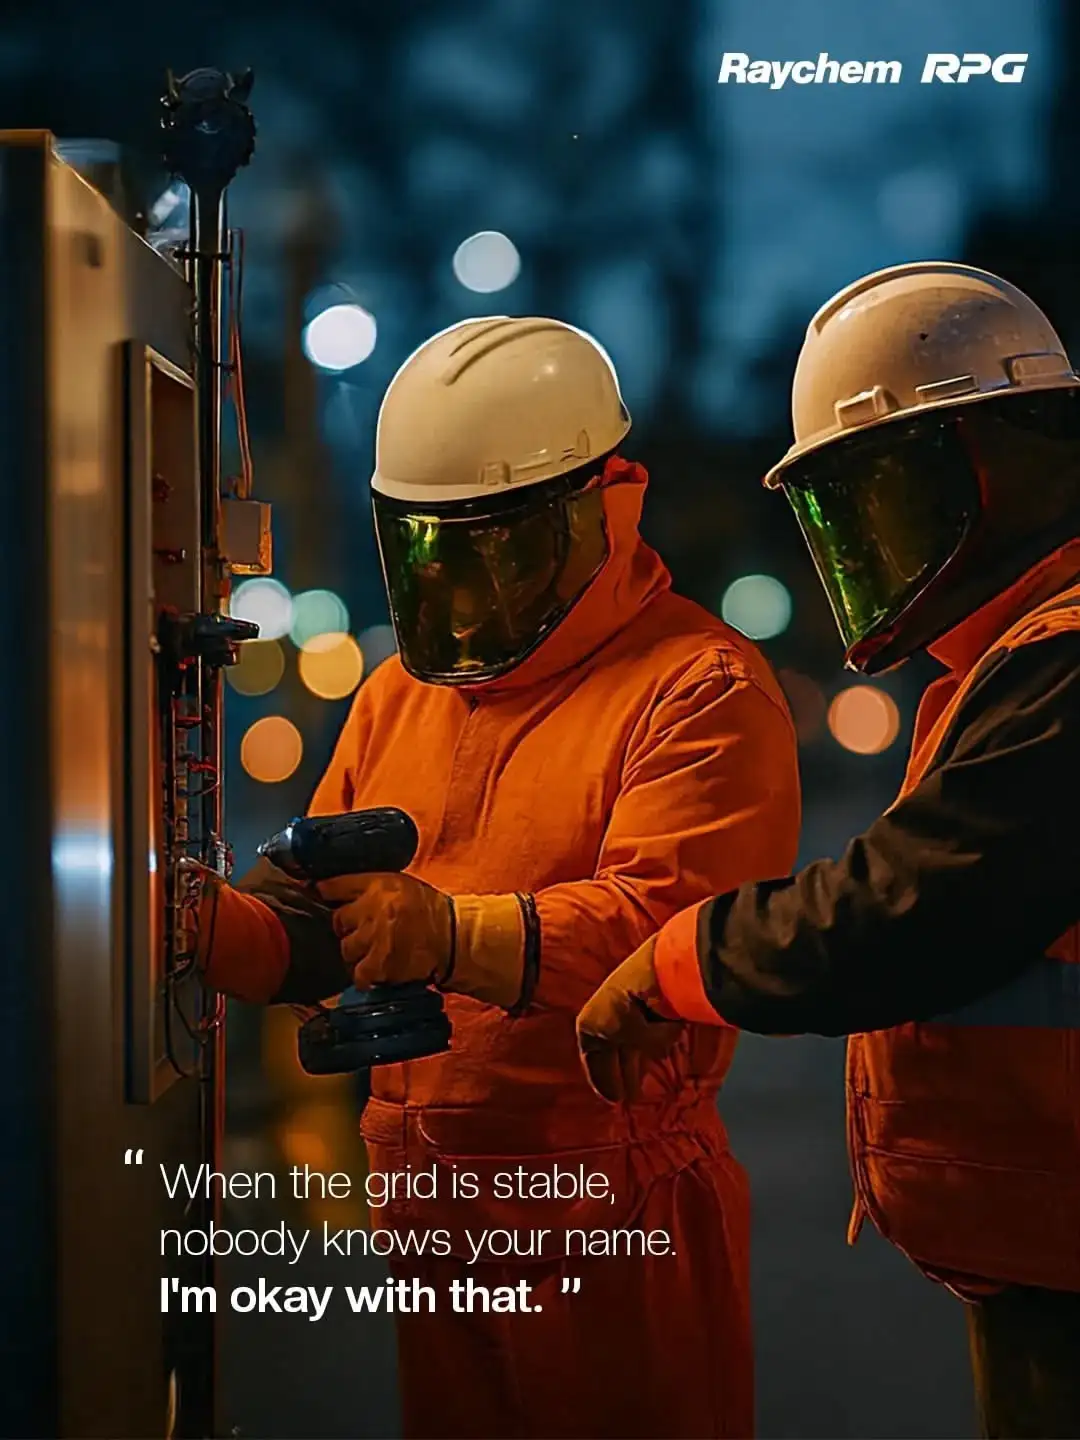
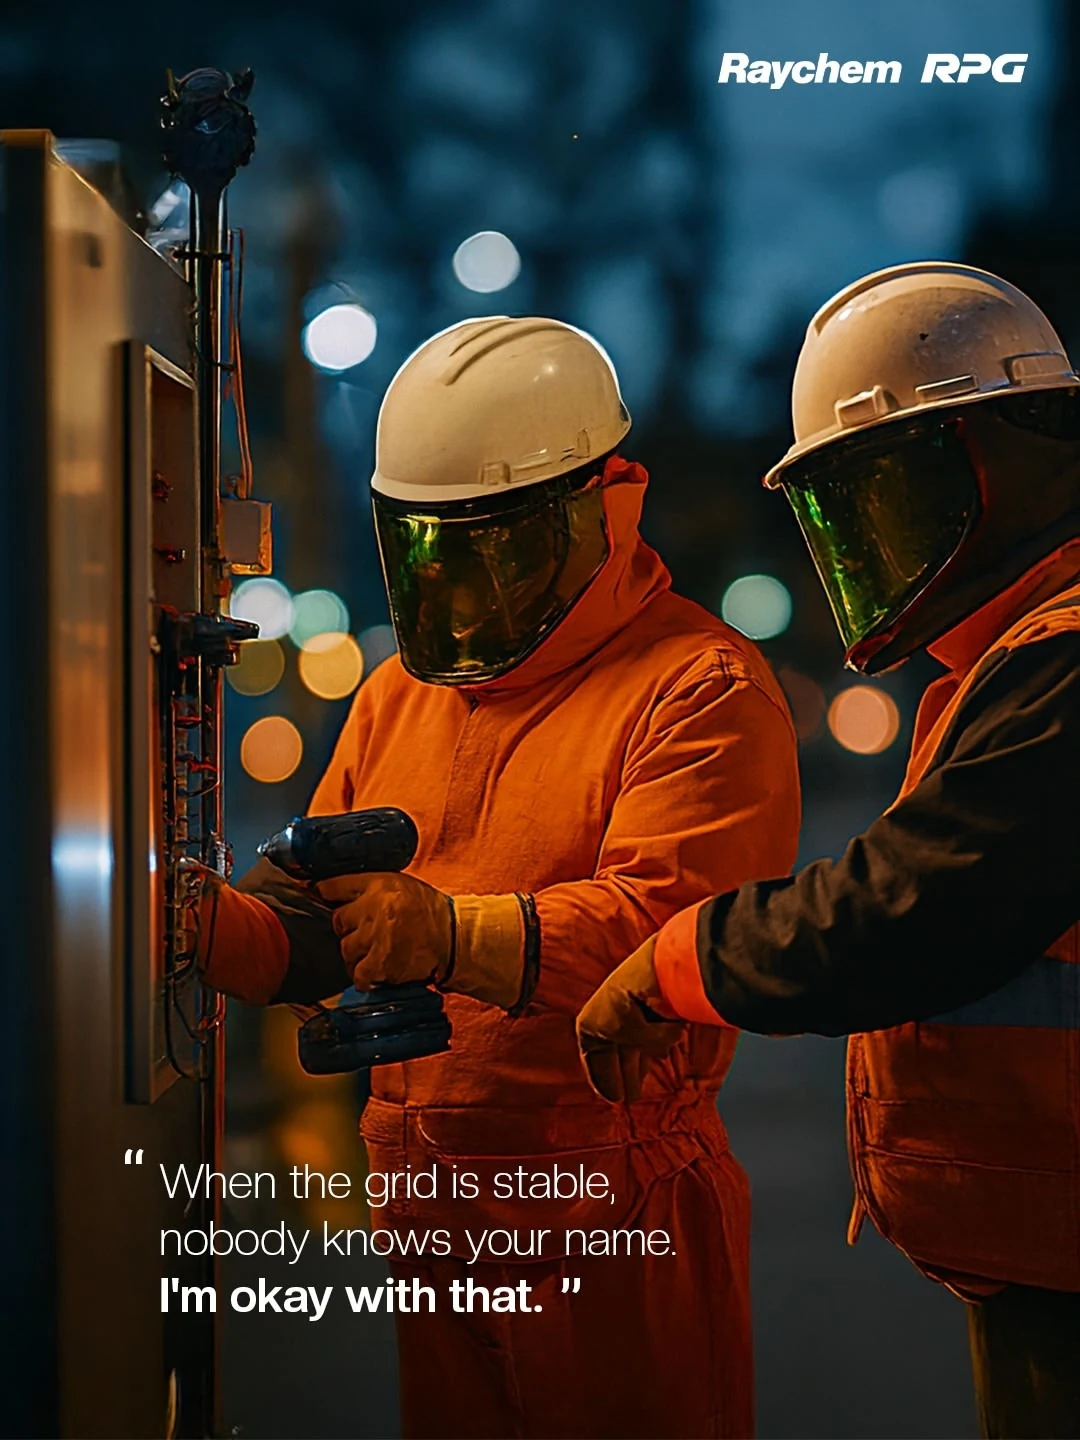
Refresh cover and Raychem visuals

Changed region(s): [[0.7639, 0.4062, 0.7944, 0.4375]]

diff --git a/src/components/OwlSurfLogo.tsx b/src/components/OwlSurfLogo.tsx
@@ -1,0 +1,113 @@
+import React, { useEffect, useRef, useState } from "react";
+
+const DURATION = 360;
+const FPS = 30;
+
+function interpolate(
+  value: number,
+  inputRange: [number, number, number],
+  outputRange: [number, number, number]
+): number {
+  const [i0, i1, i2] = inputRange;
+  const [o0, o1, o2] = outputRange;
+  if (value <= i0) return o0;
+  if (value <= i1) return o0 + ((value - i0) / (i1 - i0)) * (o1 - o0);
+  if (value <= i2) return o1 + ((value - i1) / (i2 - i1)) * (o2 - o1);
+  return o2;
+}
+
+interface OwlSurfLogoProps {
+  className?: string;
+  style?: React.CSSProperties;
+}
+
+export const OwlSurfLogo: React.FC<OwlSurfLogoProps> = ({ className, style }) => {
+  const [frame, setFrame] = useState(0);
+  const rafRef = useRef<number>(0);
+  const startRef = useRef<number>(0);
+  const lastFrameRef = useRef<number>(-1);
+
+  useEffect(() => {
+    const animate = (timestamp: number) => {
+      if (!startRef.current) startRef.current = timestamp;
+      const elapsed = timestamp - startRef.current;
+      const currentFrame = Math.floor((elapsed / 1000) * FPS) % DURATION;
+
+      if (currentFrame !== lastFrameRef.current) {
+        lastFrameRef.current = currentFrame;
+        setFrame(currentFrame);
+      }
+
+      rafRef.current = requestAnimationFrame(animate);
+    };
+
+    rafRef.current = requestAnimationFrame(animate);
+    return () => cancelAnimationFrame(rafRef.current);
+  }, []);
+
+  const t = (frame / DURATION) * Math.PI * 2;
+  const earAngle = Math.sin(t * 3) * 3;
+
+  const cycle = 120;
+  const burst = 20;
+  const flapPhase = frame % cycle;
+  const wingAngle =
+    flapPhase < burst
+      ? Math.sin((flapPhase / burst) * Math.PI * 2 * 3) * 2.5
+      : 0;
+
+  const blinkPhase = frame % 90;
+  const eyeScaleY =
+    blinkPhase < 8
+      ? interpolate(blinkPhase, [0, 4, 8], [1, 0.05, 1])
+      : 1;
+
+  const scaleAround = (px: number, py: number, sy: number) =>
+    `translate(${px} ${py}) scale(1 ${sy}) translate(${-px} ${-py})`;
+
+  return (
+    <svg
+      viewBox="0 0 800 816.29"
+      xmlns="http://www.w3.org/2000/svg"
+      className={className}
+      style={style}
+      role="img"
+      aria-label="OwlSurf logo"
+    >
+      <circle cx="400" cy="400" r="400" fill="#4dc1c1" />
+
+      <g transform={`rotate(${-earAngle} 196 235)`}>
+        <polygon fill="#231f20" points="195.67 279.69 155.96 190.54 286.8 242.73 195.67 279.69" />
+        <path fill="#231f20" d="m192.61,287.27l-47.91-107.54,157.84,62.95-109.94,44.59Zm-25.4-85.91l31.51,70.74,72.32-29.33-103.83-41.41Z" />
+      </g>
+
+      <g transform={`rotate(${earAngle} 512 235)`}>
+        <polygon fill="#231f20" points="512.18 276.34 551.89 187.19 421.05 239.38 512.18 276.34" />
+        <path fill="#231f20" d="m515.23,283.92l-109.94-44.59,157.84-62.95-47.9,107.54Zm-78.43-44.5l72.32,29.33,31.51-70.74-103.83,41.41Z" />
+      </g>
+
+      <g transform={`rotate(${wingAngle} 370 380)`}>
+        <path fill="#231f20" d="m238.69,328.59s-103.28,358.7,316.38,471.46c0,0,135.58-506.38-316.38-471.46Z" />
+      </g>
+
+      <ellipse cx="357.63" cy="302.87" rx="216.5" ry="156.99" fill="#231f20" />
+      <path fill="#ffffff" d="m539.71,287.25c0,36.44-19.02,68.42-47.66,86.61-24.97,17.71-72.39,29.66-126.87,29.66-57.77,0-107.66-13.45-131.18-32.95-.05-.05-.1-.1-.15-.15-25.89-18.58-42.68-48.92-42.68-83.18,0-56.66,45.92-102.58,102.58-102.58,27.92,0,53.23,11.13,71.66,29.27,18.44-18.15,43.74-29.27,71.71-29.27,56.66,0,102.58,45.92,102.58,102.58Z" />
+      <path fill="#231f20" d="m365.18,406.47c-57.05,0-108.04-12.89-133.05-33.63l-.19-.17c-27.37-19.74-43.7-51.65-43.7-85.42,0-58.18,47.34-105.52,105.52-105.52,26.85,0,52.18,9.97,71.66,28.14,19.48-18.17,44.83-28.14,71.71-28.14,58.18,0,105.52,47.34,105.52,105.52,0,36.29-18.33,69.6-49.02,89.09-26.14,18.55-75.4,30.12-128.45,30.12Zm-71.42-218.85c-54.94,0-99.64,44.7-99.64,99.64,0,31.96,15.5,62.16,41.45,80.79l.36.31c23.59,19.57,74.34,32.24,129.24,32.24,51.89,0,99.85-11.16,125.17-29.12,29.12-18.5,46.42-49.95,46.42-84.22,0-54.94-44.7-99.64-99.64-99.64-26.29,0-51.02,10.1-69.65,28.43l-2.06,2.03-2.06-2.03c-18.63-18.33-43.34-28.43-69.6-28.43Z" />
+
+      <circle fill="#231f20" cx="268.18" cy="276.83" r="43.34" />
+      <path fill="#231f20" d="m268.18,328.33c-28.39,0-51.49-23.1-51.49-51.49s23.1-51.49,51.49-51.49,51.49,23.1,51.49,51.49-23.1,51.49-51.49,51.49Zm0-86.67c-19.4,0-35.18,15.78-35.18,35.18s15.78,35.18,35.18,35.18,35.18-15.78,35.18-35.18-15.78-35.18-35.18-35.18Z" />
+
+      <circle fill="#231f20" cx="463.49" cy="275.41" r="43.34" />
+      <path fill="#231f20" d="m463.49,326.91c-28.39,0-51.49-23.1-51.49-51.49s23.1-51.49,51.49-51.49,51.49,23.1,51.49,51.49-23.1,51.49-51.49,51.49Zm0-86.67c-19.4,0-35.18,15.78-35.18,35.18s15.78,35.18,35.18,35.18,35.18-15.78,35.18-35.18-15.78-35.18-35.18-35.18Z" />
+
+      <polygon fill="#231f20" points="348.87 288.11 381.11 288.11 364.99 316.01 348.87 288.11" />
+
+      <path fill="#ffffff" d="m592.71,685.55l-109,99.37c-15.11-5.59-32.08-13.28-51.17-23.39-204.57-108.39-151.65-389.94-151.65-389.94l105.94-41.67,205.88,355.63Z" />
+      <path fill="#231f20" d="m640.36,810.97c-18.24-116.54-46.15-239.08-96.06-345.52-32.7-69.73-92.9-145.96-166.34-89.03-24.7,19.15-40.86,49.45-48.77,81.73-12.63,51.51-8.66,111.34,3.42,163.5,0,.01,42.36,182.79,307.76,189.32Z" />
+      <path fill="#ffffff" d="m646.42,816.29l-6.19-.15c-138.79-3.41-216.32-55.51-256.93-98.61-44.23-46.95-55.29-92.77-55.73-94.7-13.81-59.61-15.02-118.53-3.41-165.9,8.85-36.1,26.83-66.13,50.62-84.59,23.65-18.34,47.77-24.71,71.7-18.95,49.99,12.04,85.67,74.01,102.49,109.87,42.61,90.86,74.17,204.34,96.49,346.91l.96,6.11Zm-216.9-454.6c-16.03,0-32.26,6.3-48.41,18.82-21.96,17.03-38.63,45.04-46.92,78.88-11.23,45.83-10.01,103.04,3.44,161.1.41,1.77,44.12,176.13,296.65,185.13-22.11-138.71-53.09-249.31-94.67-337.97-16.03-34.19-49.76-93.18-95.56-104.21-4.82-1.16-9.67-1.74-14.54-1.74Z" />
+
+      <circle fill="#ffffff" cx="268.18" cy="276.83" r="10.09" transform={scaleAround(268.18, 276.83, eyeScaleY)} />
+      <circle fill="#ffffff" cx="462.91" cy="275.41" r="10.09" transform={scaleAround(462.91, 275.41, eyeScaleY)} />
+    </svg>
+  );
+};

diff --git a/src/components/slides/TitleSlide.tsx b/src/components/slides/TitleSlide.tsx
@@ -12,11 +12,11 @@ const Arrow19 = React.forwardRef<Arrow19Element, Arrow19Props>(
 );
 Arrow19.displayName = "Arrow19";
 import { animate, createSpring } from "animejs";
-import logo from "@/assets/logo-main.jpg";
 import { Globe } from "@/components/ui/globe";
 import { LiquidGlassCard } from "react-liquid-glass-card";
 import LightRays from "@/components/LightRays";
 import { useIsMobile } from "@/hooks/use-mobile";
+import { OwlSurfLogo } from "@/components/OwlSurfLogo";
 
 const TitleSlide = ({ onViewCaseStudies }: { onViewCaseStudies?: () => void }) => {
   const isMobile = useIsMobile();
@@ -234,7 +234,7 @@ const TitleSlide = ({ onViewCaseStudies }: { onViewCaseStudies?: () => void }) =
               style={{ clipPath: "circle(0% at 50% 50%)" }}
             >
               <LiquidGlassCard borderRadius="50%" padding="6px" blur={15} brightness={1.15} backgroundColor="rgba(75, 194, 194, 0.08)">
-                <img src={logo} alt="OwlSurf Digital" className="w-full h-full object-cover rounded-full" />
+                <OwlSurfLogo className="h-full w-full rounded-full" />
               </LiquidGlassCard>
             </div>
           </a>

diff --git a/src/components/slides/SkyrocketSlide.tsx b/src/components/slides/SkyrocketSlide.tsx
@@ -137,7 +137,7 @@ const SkyrocketSlide = () => {
       </div>
       <div className="absolute inset-0 z-[1] bg-[radial-gradient(circle_at_63%_50%,rgba(75,194,194,0.18),transparent_34%),linear-gradient(90deg,hsl(214_30%_6%/0.98),hsl(214_30%_6%/0.92)_48%,hsl(182_70%_18%/0.38))]" />
       <div className="relative z-10 h-full w-full max-w-[1720px] overflow-hidden bg-[#090d12]/92 shadow-2xl">
-        <div className="absolute inset-y-0 right-0 z-10 hidden w-[58%] overflow-hidden md:block">
+        <div className="absolute inset-y-0 right-[-8%] z-10 hidden w-[58%] overflow-hidden md:block">
           <img
             src={industrialEngineerImage}
             alt=""

diff --git a/src/components/slides/RaychemRPGCaseStudy.tsx b/src/components/slides/RaychemRPGCaseStudy.tsx
@@ -10,9 +10,9 @@ const raychemRed = "356 86% 52%";
 const raychemBlue = "210 100% 25%";
 
 const sliderImages = [
-    { image: raychemCreative1, alt: "Raychem RPG creative 1" },
-    { image: raychemCreative2, alt: "Raychem RPG creative 2" },
-    { image: raychemCreative3, alt: "Raychem RPG creative 3" },
+    { image: raychemCreative1, alt: "Raychem RPG power grid creative" },
+    { image: raychemCreative2, alt: "Raychem RPG invisible infrastructure creative" },
+    { image: raychemCreative3, alt: "Raychem RPG field engineers at work" },
 ];
 
 const RaychemRPGCaseStudy = () => {

diff --git a/handoff.md b/handoff.md
@@ -15,7 +15,9 @@ Do not update `handoff.md` at session end, during context clearing, or during or
 
 ## Current Goal
 
-Session 16 (current) is preparing a push for the deck-wide Anime.js motion cleanup and OwlSurf teal scale update. The non-case-study slides now use stronger content-bound Anime.js motion: heading spring, accent-word blur-to-sharp motion, lanyard/card/logo overshoot, and link/icon pulses where useful. The broad scan-line sweep and circular glow-orbit blob have been removed from all slides, including all seven case studies.
+Session 17 (current) is preparing a push for a focused visual asset update. The cover slide now uses a reusable animated SVG `OwlSurfLogo` component in the same right-side circular logo placement, the Who We Are slide's right-side technical illustration is shifted further toward the right edge, and the Raychem RPG case study now uses three refreshed WebP creatives converted from the user's Downloads folder.
+
+Session 16 pushed the deck-wide Anime.js motion cleanup and OwlSurf teal scale update. The non-case-study slides now use stronger content-bound Anime.js motion: heading spring, accent-word blur-to-sharp motion, lanyard/card/logo overshoot, and link/icon pulses where useful. The broad scan-line sweep and circular glow-orbit blob have been removed from all slides, including all seven case studies.
 
 Session 15 pushed the case-study Anime.js motion system. All seven case-study slides keep heading spring, accent-word blur-to-sharp slide, creative/slider overshoot, and stat icon pulse where stats exist. The scan-line sweep and glow orbit from that first pass were removed in Session 16 after visual feedback.
 
@@ -39,6 +41,13 @@ The dev server was running during this session. `npm run build` was run before p
 - **No line/blob rule** — `rg -n "scan-line|glow-orbit" src/components/slides` returns no matches.
 - **OwlSurf design system** (`src/index.css`, `tailwind.config.ts`) — added the supplied teal scale from `50` to `700`, kept `#4BC2C2` as the primary teal, and remapped teal light/dark aliases to the new scale.
 - **Next session plan** — add/reuse a `prefers-reduced-motion` gate before broadening motion further or extracting shared helpers.
+
+### Cover logo, Who We Are image placement, and Raychem creatives (Session 17)
+
+- **Cover (TitleSlide)** — the old `logo-main.jpg` image inside the right-side circular logo treatment was replaced with a new reusable `OwlSurfLogo` SVG component. The existing link, rings, sizing wrapper, glass card, and reveal animation were kept.
+- **Who We Are (SkyrocketSlide)** — the desktop right-side technical illustration panel now sits at `right-[-8%]` so the image hugs the right edge more closely while retaining its scale and existing animation.
+- **Raychem RPG case study** — the three Raychem JPEG creatives from `~/Downloads/Client Projects/Raychem RPG/` were converted to WebP and replaced the existing site assets: `raychem-creative-1.webp`, `raychem-creative-2.webp`, and `Raychemcasestudy 3.webp`. The slide still renders all three through `ParallaxCardSlider`, with clearer alt text.
+- **Verification approach** — browser visual checks were skipped at the user's explicit request. The user will provide visual feedback manually.
 
 ### Our Team lanyard + handoff workflow (Session 14)
 
@@ -112,6 +121,20 @@ Removed 16 orphan files in this session:
 `vite.config.ts` `manualChunks` still lists `@radix-ui/react-slot`, `@radix-ui/react-toast`, and `@radix-ui/react-tooltip` under `vendor-ui`. These dependencies remain installed in `package.json` because nothing in `src/` imports them after the deletes — they are candidates for a future `npm uninstall`, but the dependency-removal pass was not done in this session.
 
 `@gsap/react` becomes unused after `SplitText.tsx` was removed; same caveat applies.
+
+## Files Touched (Session 17)
+
+Focused visual asset update:
+- `src/components/OwlSurfLogo.tsx` — new reusable animated SVG OwlSurf mark
+- `src/components/slides/TitleSlide.tsx` — cover logo content swapped to `OwlSurfLogo`
+- `src/components/slides/SkyrocketSlide.tsx` — right-side illustration panel shifted toward the right edge
+- `src/components/slides/RaychemRPGCaseStudy.tsx` — Raychem slider alt text refreshed while keeping all three converted creatives
+- `src/assets/raychem-creative-1.webp` — replaced with converted Raychem PowerGrid creative from Downloads
+- `src/assets/raychem-creative-2.webp` — replaced with converted Raychem Invisible Infrastructure creative from Downloads
+- `src/assets/Raychemcasestudy 3.webp` — replaced with converted Raychem human/field-engineer creative from Downloads
+- `context.md` — Session 17 log and latest-state summary
+- `prod.md` — cover logo, Slide 2 placement, and Raychem WebP guidance
+- `handoff.md` — push-gate state refreshed for this push
 
 ## Files Touched (Session 13)
 
@@ -211,6 +234,8 @@ Doc updates (this commit):
 - `npm run build` passes before the Session 14 lanyard/workflow push.
 - `npm run build` passes before the Session 15 case-study motion push.
 - `npm run build` passes before the Session 16 deck-wide motion cleanup push.
+- `npm run build` passes before the Session 17 visual asset push.
+- `file src/assets/raychem-creative-1.webp src/assets/raychem-creative-2.webp 'src/assets/Raychemcasestudy 3.webp'` confirms all three Raychem assets are WebP images at 1080x1440.
 - `rg -n "scan-line|glow-orbit" src/components/slides` returns no matches after Session 16 cleanup.
 - `npm test` / `npm run lint` were not re-run in this session after the deletes; the project's pre-existing lint debt in `LightRays.tsx`, `Hyperspeed.tsx`, `PrismaticBurst.tsx`, and `tailwind.config.ts` is still expected to fail lint.
 - Visual screenshot capture was intentionally skipped per the original handoff policy (the user prefers to judge browser output manually).
@@ -249,11 +274,15 @@ Other open project items carried over from earlier sessions:
 
 ## Current Workspace Notes
 
-Intended files for the Session 11 commit:
-- 13 slide / nav source files listed above
+Intended files for the Session 17 commit:
+- `src/components/OwlSurfLogo.tsx`
+- `src/components/slides/TitleSlide.tsx`
+- `src/components/slides/SkyrocketSlide.tsx`
+- `src/components/slides/RaychemRPGCaseStudy.tsx`
+- `src/assets/raychem-creative-1.webp`
+- `src/assets/raychem-creative-2.webp`
+- `src/assets/Raychemcasestudy 3.webp`
 - `handoff.md`, `context.md`, `prod.md`
-- `ux-audit-report.html`, `ux-audit-report.pdf`
-- 16 orphan file deletes
 
 Unrelated untracked items that should remain unstaged unless asked:
 - `.agents/`

diff --git a/context.md b/context.md
@@ -10,11 +10,42 @@
 **Live URL:** Was on Vercel (domain broken — needs reconnect). GitHub: `Manasxxx/presentation-palette-perfect`.
 **Dev:** `npm run dev` → `localhost:8080` (port hardcoded in `vite.config.ts`).
 **Stack:** Vite + React 18 + TypeScript + Tailwind 3 + Anime.js + GSAP + shadcn/ui (with most shadcn primitives now removed as dead code).
-**Latest working state:** Session 16 extended the Anime.js entrance language to the non-case-study slides and removed the broad scan-line / circular glow-orbit treatment from the deck. The current motion language is heading spring, accent-word blur-to-sharp slide, creative/slider/lanyard overshoot, and stat/icon pulse where useful. The OwlSurf design tokens now include the supplied teal scale (`50` through `700`) in CSS variables and Tailwind.
+**Latest working state:** Session 17 refreshed a small set of visual assets without changing the deck structure: the cover uses a reusable animated SVG `OwlSurfLogo` component in the existing right-side logo slot, the Who We Are right-side illustration is pushed further toward the right edge, and the Raychem RPG case study uses three WebP creatives converted from the user's Downloads folder. Session 16's current motion language remains heading spring, accent-word blur-to-sharp slide, creative/slider/lanyard overshoot, and stat/icon pulse where useful. The OwlSurf design tokens still include the supplied teal scale (`50` through `700`) in CSS variables and Tailwind.
 
 ---
 
 ## Session Log
+
+### Session 17 — Cover logo component, Slide 2 image shift, Raychem WebP refresh
+
+**What was done:**
+
+**1. Cover logo replaced with animated SVG component** (`src/components/OwlSurfLogo.tsx`, `src/components/slides/TitleSlide.tsx`)
+- Added a reusable `OwlSurfLogo` React component based on the user-supplied SVG animation file from Downloads.
+- Swapped the cover slide's `logo-main.jpg` image for `OwlSurfLogo` inside the existing right-side circular logo treatment.
+- Preserved the current placement, external link, ring treatment, glass card wrapper, size classes, and clip-path reveal animation.
+
+**2. Who We Are image shifted right** (`src/components/slides/SkyrocketSlide.tsx`)
+- Moved the desktop right-side image panel from `right-0` to `right-[-8%]`.
+- Kept the image scale, object positioning, opacity, blend mode, and Anime.js entrance unchanged.
+
+**3. Raychem creatives replaced with converted WebP assets** (`src/assets/*.webp`, `src/components/slides/RaychemRPGCaseStudy.tsx`)
+- Converted these three files from `~/Downloads/Client Projects/Raychem RPG/` to WebP and replaced the existing site assets:
+  - `Raychem PowerGrid.jpeg` -> `src/assets/raychem-creative-1.webp`
+  - `Raychem Invisible Infrastructure.jpeg` -> `src/assets/raychem-creative-2.webp`
+  - `Raychem 1 3am India.jpeg` -> `src/assets/Raychemcasestudy 3.webp`
+- Kept the Raychem case study on its existing `ParallaxCardSlider` layout with all three refreshed creatives.
+- Updated the slider alt text to describe each creative more clearly.
+
+**Rationale:**
+- The cover needed to use the supplied OwlSurf mark without disturbing the established first-slide composition.
+- The Who We Are illustration needed to sit more aggressively on the right edge after live visual feedback.
+- Raychem needed the current creative files from Downloads, but source assets in the product tree should remain WebP per `prod.md`.
+
+**Verification:**
+- `file` confirms all three Raychem assets are WebP images at 1080x1440.
+- `npm run build` passed before push.
+- Browser screenshots and browser verification were skipped because the user explicitly prefers to provide visual feedback manually.
 
 ### Session 16 — Deck-wide motion cleanup + OwlSurf teal scale
 
@@ -549,8 +580,10 @@ src/
   pages/Index.tsx          — lazy slide registry, progressive mounting, scroll handler, nav
   components/
     slides/TitleSlide.tsx  — cover slide, 3-zone layout
-    slides/SkyrocketSlide.tsx — slide 2 Who We Are editorial layout, memoized Hyperspeed config
+    OwlSurfLogo.tsx        — animated SVG OwlSurf mark used in the cover logo slot
+    slides/SkyrocketSlide.tsx — slide 2 Who We Are editorial layout, memoized Hyperspeed config, right-edge illustration
     slides/OurTeamSlide.tsx — left roster selector + single active team lanyard
+    slides/RaychemRPGCaseStudy.tsx — Raychem case study with three refreshed WebP creatives
     ui/Lanyard/            — React Bits lanyard, OwlSurf strap, active badge avatar
     ProfileCard.jsx/css    — older React Bits profile card files, not the current team-slide path
     Radar.jsx/css          — older WebGL radar files, not the current team-slide path

diff --git a/prod.md b/prod.md
@@ -18,6 +18,7 @@
 ### Lightweight as a Feature
 - JS bundle target: under 800KB gzipped. Current: app chunk 165KB + vendors parallel-loaded ✓ (code-split via `vite.config.ts` manualChunks).
 - Images: all deliverable assets must be WebP. PNGs allowed only as originals in `/src/assets` during dev. Run `npm run images:convert` (requires `npm i -D sharp`) to batch-convert to WebP.
+- When replacing client creatives from external folders such as Downloads, convert them to WebP before wiring them into the site. Raychem RPG's three active creative assets are the converted WebP files in `src/assets/`, not the source JPEGs in Downloads.
 - Heavy effects (3D, particle systems, blur) are **gated on desktop only** via `useIsMobile()`. Never on mobile, except for foreground hero objects that have a deliberate mobile fallback/performance cap.
 - Mount only the active slide. Placeholder sections preserve scroll height, but offscreen slides must not keep WebGL canvases, RAF loops, timers, or pointer listeners alive.
 - Ambient WebGL backgrounds should cap device pixel ratio at `1.25` unless a specific foreground detail requires more. On Retina displays this is a major heat/lag control.
@@ -45,6 +46,8 @@
   - **Polished vertical** (e.g. Baxsaa): centered eyebrow + heading + tagline top, creative grid or `ParallaxCardSlider` middle, brand-tinted stat pills row, optional eyebrow-style callout card (e.g. Baxsaa's SEO clean-up) at bottom. Pills use a translucent fill + 1px brand-color hairline border instead of `LiquidGlassCard` so the brand palette reads cleanly on light or dark gradients.
 - Animations reveal content, never distract from it. Duration cap: 1200ms max per element, except a deliberate foreground hero reveal can run up to 1350ms when it reads as one object.
 - Slide 2 now follows a split editorial layout: Palanquin copy on the left, sector badges anchored low-left, and a right-edge technical line illustration. Avoid reintroducing page-level header/footer labels, slide borders, decorative grids, or divider gradients there unless explicitly requested.
+- Slide 2's right-side technical illustration is intentionally pushed toward the right edge on desktop. Keep that edge-biased placement unless the user asks to recentre the image.
+- The cover slide's right-side logo slot uses the animated `OwlSurfLogo` SVG component inside the existing circular glass/ring treatment. Keep the placement and interaction shell intact when updating the mark.
 - Our Team uses a simplified left roster plus one live React Bits lanyard on the right. Only one WebGL lanyard should be mounted at a time; inactive employees stay visually muted, the active employee is fully colorified, and the roster/avatar auto-advance every 5 seconds. The lanyard strap mark should stay upright and crisp: use a high-resolution generated band texture, React Bits-style texture repeat, and avoid stretching the OwlSurf logo artwork to compensate for MeshLine mapping.
 - Services slide (slide 4) is a left-pillars / right-CardSwap layout, NOT a flat icon grid. Five pillars use B2B buyer language: Brand & Story, Demand Gen, Discovery, Marketing Stack, AI & Autopilot. Each pillar holds 5 sub-services shown as stacked CardSwap cards. Card headings are teal; bodies stay layman-friendly while keeping industry terms (ABM, SEO, HubSpot/Marketo, AEO, Marketing Copilots). The per-card `[PILLAR] • B2B / Industrial` footer band was removed in Session 11 — do not reintroduce it; the active pillar label on the left tab is already the cue.
 - Clients slide (slide 5) uses a top-left monster heading + two-row React Bits `LogoLoop` carousel. Keep true CSS mask edge fading, calm speeds, pause-on-hover, and offscreen RAF pausing.
